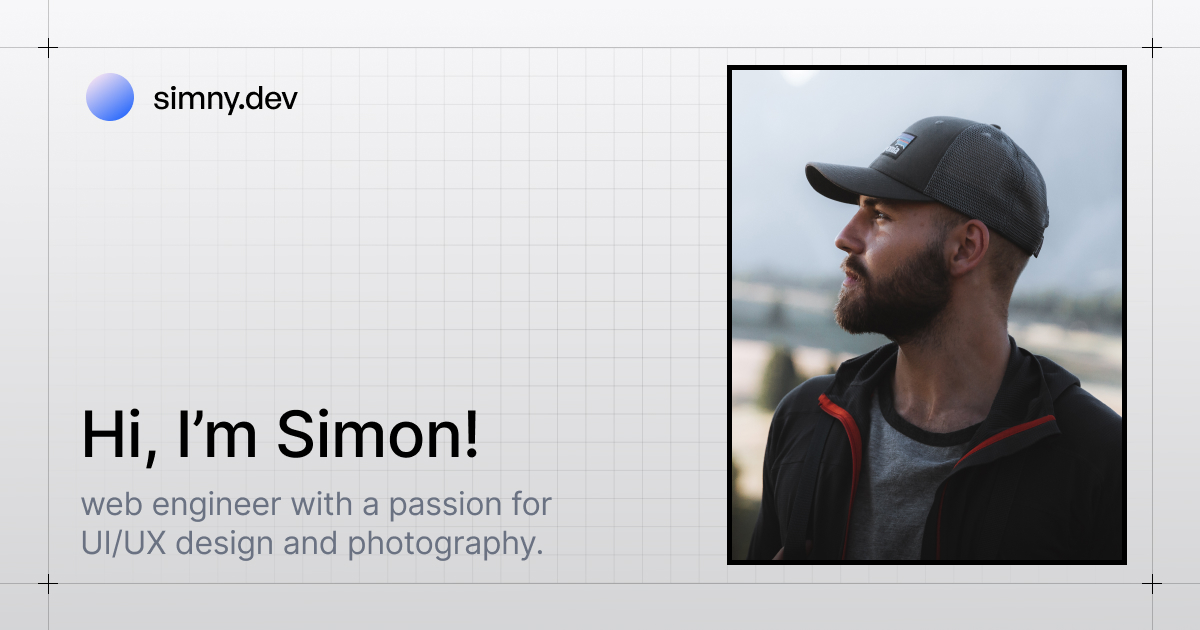
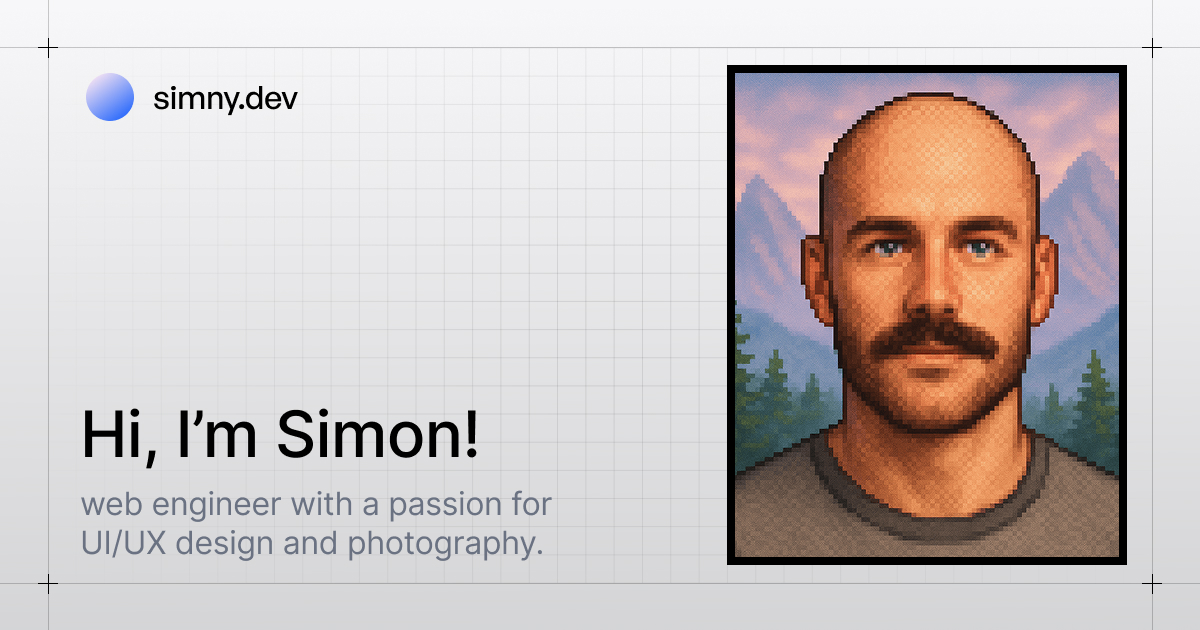
added page metadata helper

Changed region(s): [[0.5858, 0.0905, 0.9558, 0.9048]]

diff --git a/app/photography/page.tsx b/app/photography/page.tsx
@@ -4,27 +4,27 @@ import StructuredData from '@/components/seo/StructuredData';
 import { SITE_NAME, SITE_URL } from '@/data/constants';
 import { galleryCollections } from '@/data/gallery';
 import { getCollections } from '@/lib/gallery';
+import { buildPageMetadata } from '@/lib/metadata';
 import { slugify } from '@/lib/utils';
-import { Metadata } from 'next';
+import { Metadata, ResolvingMetadata } from 'next';
 import { CollectionPage, WithContext } from 'schema-dts';
 
 const title = 'Photography';
 const description = "Collections of photos I've taken. Work in progress.";
 
-export async function generateMetadata(): Promise<Metadata> {
+export async function generateMetadata(
+	_parent: unknown,
+	parent: ResolvingMetadata,
+): Promise<Metadata> {
 	const ogImage = galleryCollections[0]?.cover as string;
 
-	return {
-		title,
-		description,
-		alternates: {
-			canonical: '/photography',
-		},
-		openGraph: {
+	return buildPageMetadata(
+		{
 			title,
 			description,
-			images: [
-				{
+			canonical: '/photography',
+			openGraph: {
+				images: {
 					url: `/api/ogGallery?title=${encodeURIComponent(
 						title,
 					)}&subtitle=${encodeURIComponent('Collections')}&image=${encodeURIComponent(ogImage)}`,
@@ -33,13 +33,9 @@ export async function generateMetadata(): Promise<Metadata> {
 					alt: `${title} cover image`,
 					type: 'image/png',
 				},
-			],
-		},
-		twitter: {
-			title,
-			description,
-			images: [
-				{
+			},
+			twitter: {
+				images: {
 					url: `/api/ogGallery?title=${encodeURIComponent(
 						title,
 					)}&subtitle=${encodeURIComponent('Collections')}&image=${encodeURIComponent(ogImage)}`,
@@ -47,10 +43,10 @@ export async function generateMetadata(): Promise<Metadata> {
 					height: 630,
 					alt: `${title} cover image`,
 				},
-			],
-			card: 'summary_large_image',
+			},
 		},
-	};
+		parent,
+	);
 }
 
 export default async function Photography() {

diff --git a/app/photography/[slug]/page.tsx b/app/photography/[slug]/page.tsx
@@ -27,38 +27,38 @@ export async function generateMetadata(props: Props): Promise<Metadata | undefin
 	const { title, description, cover } = collection;
 
 	return {
-		title: `${title} Photographs`,
+		title: `${title} Photo Gallery`,
 		description,
 		alternates: {
 			canonical: `/photography/${slugify(collection.title)}`,
 		},
 		openGraph: {
-			title: `${title} Photographs`,
+			title: `${title} Photo Gallery`,
 			description,
 			url: `${SITE_URL}/photography/${slugify(collection.title)}`,
 			images: [
 				{
 					url: `/api/ogGallery?title=${encodeURIComponent(title)}&subtitle=${encodeURIComponent(
-						'Photography',
+						'Photo Gallery',
 					)}&image=${encodeURIComponent((cover as string) || '')}`,
 					width: 1200,
 					height: 630,
-					alt: `${title} Photography cover image`,
+					alt: `${title} Photo Gallery cover image`,
 					type: 'image/png',
 				},
 			],
 		},
 		twitter: {
-			title: `${title} Photographs`,
+			title: `${title} Photo Gallery`,
 			description,
 			images: [
 				{
 					url: `/api/ogGallery?title=${encodeURIComponent(title)}&subtitle=${encodeURIComponent(
-						'Photography',
+						'Photo Gallery',
 					)}&image=${encodeURIComponent((cover as string) || '')}`,
 					width: 1200,
 					height: 630,
-					alt: `${title} Photography cover image`,
+					alt: `${title} Photo Gallery cover image`,
 				},
 			],
 			card: 'summary_large_image',

diff --git a/app/work/page.tsx b/app/work/page.tsx
@@ -3,28 +3,35 @@ import StructuredData from '@/components/seo/StructuredData';
 import { SITE_NAME, SITE_URL } from '@/data/constants';
 
 import { sideProjects, professionalProjects } from '@/data/projects';
+import { buildPageMetadata } from '@/lib/metadata';
 
-import { Metadata } from 'next';
+import { Metadata, ResolvingMetadata } from 'next';
 import { CollectionPage, WithContext } from 'schema-dts';
 import { Card } from '@/components/ui/Card';
 
 const title = 'Work';
 const description = "Things I've worked on, built or tinkered with.";
 
-export const metadata: Metadata = {
-	title: title,
-	description: description,
-	alternates: {
-		canonical: '/work',
-	},
-};
+export async function generateMetadata(
+	_parent: unknown,
+	parent: ResolvingMetadata,
+): Promise<Metadata> {
+	return buildPageMetadata(
+		{
+			title,
+			description,
+			canonical: '/work',
+		},
+		parent,
+	);
+}
 
 export default function Work() {
 	const jsonLd: WithContext<CollectionPage> = {
 		'@type': 'CollectionPage',
 		'@context': 'https://schema.org',
 		name: `${SITE_NAME} - ${title}`,
-		description: metadata.description || '',
+		description,
 		url: `${SITE_URL}/work`,
 		mainEntity: {
 			'@type': 'ItemList',

diff --git a/app/writing/page.tsx b/app/writing/page.tsx
@@ -5,20 +5,27 @@ import PostList from '@/components/ui/PostList';
 import { SITE_NAME, SITE_URL } from '@/data/constants';
 
 import { getBlogPosts } from '@/lib/blog';
+import { buildPageMetadata } from '@/lib/metadata';
 
-import { Metadata } from 'next';
+import { Metadata, ResolvingMetadata } from 'next';
 import { Blog as BlogLeaf, WithContext } from 'schema-dts';
 
 const title = 'Writing';
 const description = 'Thoughts, experiments and ideas.';
 
-export const metadata: Metadata = {
-	title: title,
-	description: description,
-	alternates: {
-		canonical: '/writing',
-	},
-};
+export async function generateMetadata(
+	_parent: unknown,
+	parent: ResolvingMetadata,
+): Promise<Metadata> {
+	return buildPageMetadata(
+		{
+			title,
+			description,
+			canonical: '/writing',
+		},
+		parent,
+	);
+}
 
 export default async function Writing() {
 	const posts = getBlogPosts();
@@ -27,7 +34,7 @@ export default async function Writing() {
 		'@type': 'Blog',
 		'@context': 'https://schema.org',
 		name: `${SITE_NAME} - ${title}`,
-		description: metadata.description || '',
+		description,
 		url: `${SITE_URL}/writing`,
 		publisher: {
 			'@type': 'Person',

diff --git a/lib/metadata.ts b/lib/metadata.ts
@@ -1,0 +1,43 @@
+import { SITE_NAME, SITE_URL } from '@/data/constants';
+
+import type { Metadata, ResolvingMetadata } from 'next';
+
+type PageMetadataOptions = {
+	title: string;
+	description: string;
+	canonical: string;
+	openGraph?: Metadata['openGraph'];
+	twitter?: Metadata['twitter'];
+};
+
+export async function buildPageMetadata(
+	{ title, description, canonical, openGraph, twitter }: PageMetadataOptions,
+	parent: ResolvingMetadata,
+): Promise<Metadata> {
+	const previousMetadata = await parent;
+	const absoluteUrl = canonical === '/' ? SITE_URL : `${SITE_URL}${canonical}`;
+	const fullTitle = `${title} | ${SITE_NAME}`;
+
+	return {
+		title,
+		description,
+		alternates: {
+			canonical,
+		},
+		openGraph: {
+			...(previousMetadata.openGraph ?? {}),
+			title: fullTitle,
+			description,
+			url: absoluteUrl,
+			images: openGraph?.images ?? previousMetadata.openGraph?.images,
+			...openGraph,
+		},
+		twitter: {
+			...(previousMetadata.twitter ?? {}),
+			title: fullTitle,
+			description,
+			images: twitter?.images ?? previousMetadata.twitter?.images,
+			...twitter,
+		},
+	};
+}

diff --git a/app/now/page.tsx b/app/now/page.tsx
@@ -3,21 +3,28 @@ import CustomLink from '@/components/blog/Link';
 import PageHeader from '@/components/layouts/PageHeader';
 
 import { SITE_URL } from '@/data/constants';
+import { buildPageMetadata } from '@/lib/metadata';
 import { getArchivedNowEntries, getLatestNowEntry } from '@/lib/now';
 import { formatDate } from '@/lib/utils';
 import { MDXContent } from '@content-collections/mdx/react';
-import { Metadata } from 'next';
+import { Metadata, ResolvingMetadata } from 'next';
 
 const title = 'Now';
 const description = "What's currently on my mind, what I'm working on, and what I'm into.";
 
-export const metadata: Metadata = {
-	title: title,
-	description: description,
-	alternates: {
-		canonical: '/now',
-	},
-};
+export async function generateMetadata(
+	_parent: unknown,
+	parent: ResolvingMetadata,
+): Promise<Metadata> {
+	return buildPageMetadata(
+		{
+			title,
+			description,
+			canonical: '/now',
+		},
+		parent,
+	);
+}
 
 export default async function Now() {
 	const latestEntry = getLatestNowEntry();

diff --git a/app/layout.tsx b/app/layout.tsx
@@ -5,7 +5,6 @@ import Navbar from '@/components/layouts/Navbar';
 import StructuredData from '@/components/seo/StructuredData';
 
 import {
-	isProduction,
 	SITE_CONTACT,
 	SITE_DESCRIPTION,
 	SITE_GITHUB_URL,
@@ -21,7 +20,6 @@ import '@/styles/globals.css';
 
 import type { Metadata, Viewport } from 'next';
 import { Inter, Newsreader, Geist_Mono } from 'next/font/google';
-import Script from 'next/script';
 import { Person, WithContext } from 'schema-dts';
 import Providers from './providers';
 
